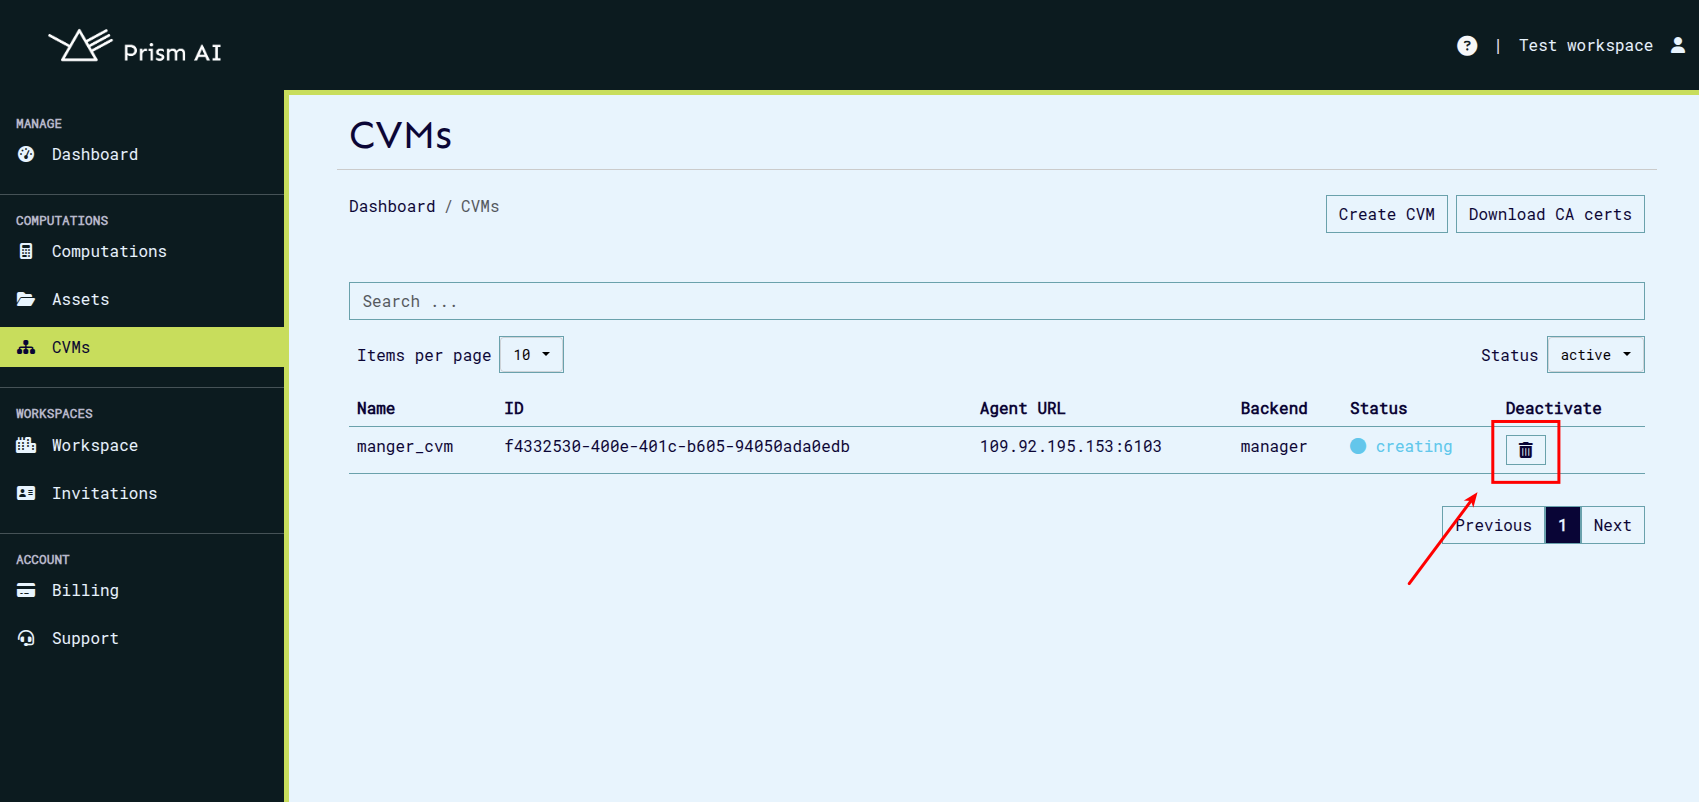
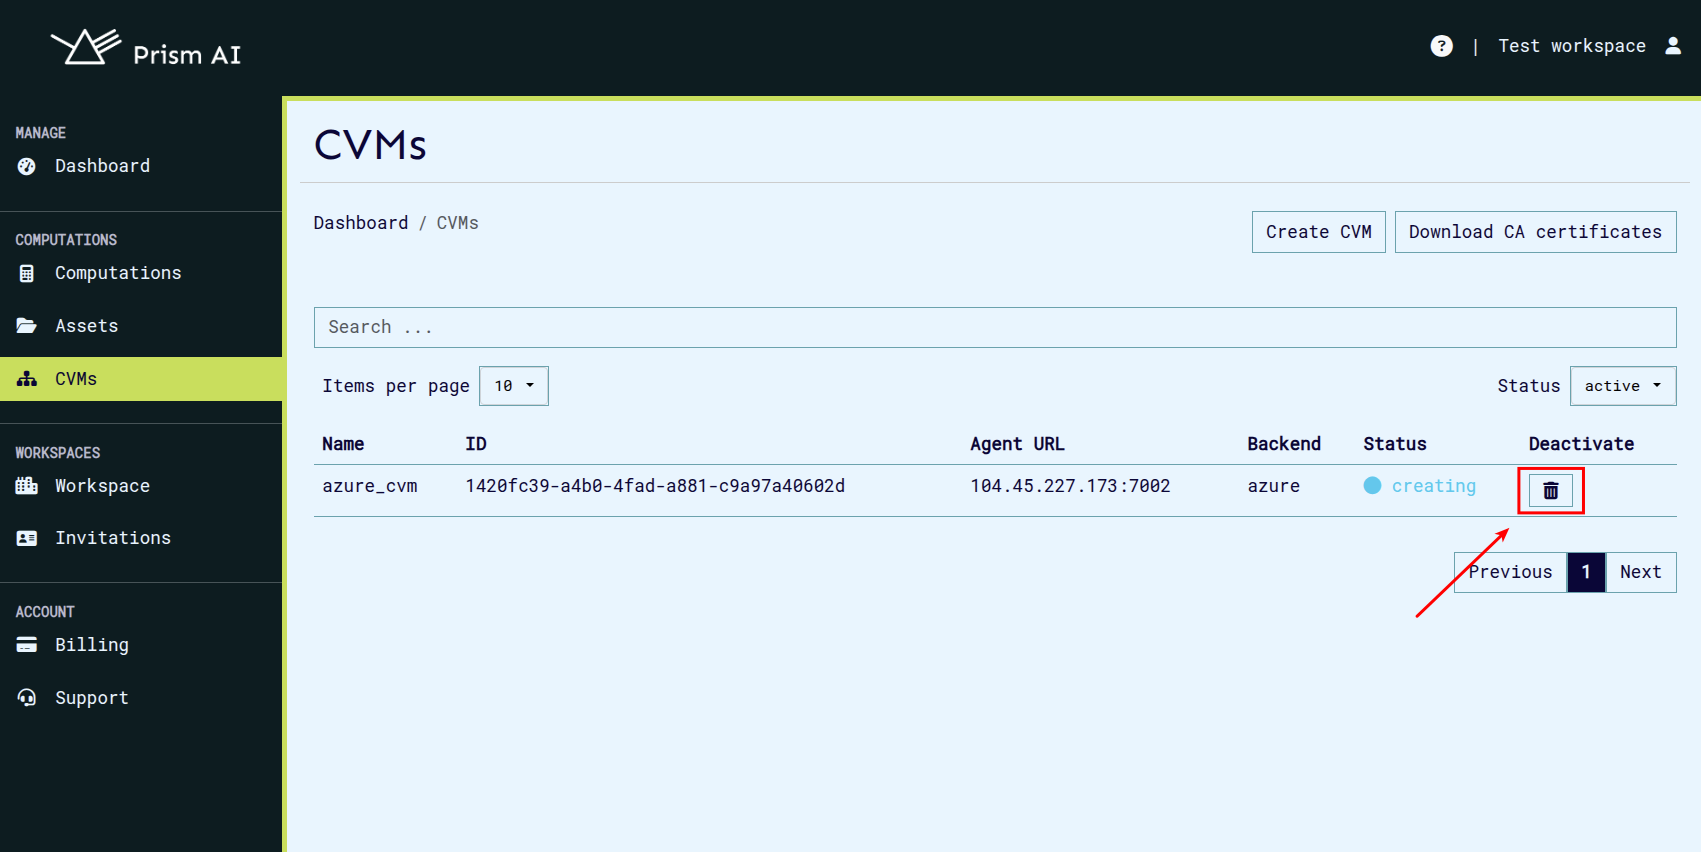
PD-80 - Test and document mutual attested TLS (#81)
* docs update

* fixed markdownlint error

* fixed markdownlint error

* Disabled the rule for non-descriptive links

* matls docs update

* updated markdown rules

* matls docs update

* rebased and fixed typo

* Added env config for maTLS

* added new images for cvm management

diff --git a/docs/computations.md b/docs/computations.md
@@ -53,13 +53,22 @@ The Agent Config feature allows users to configure TLS (Transport Layer Security
 
 The system supports four TLS configuration modes:
 
-1. Attested TLS
+1. No TLS
 
-   - Basic TLS configuration with attestation verification during the TLS handshake.
-   - No additional certificate or key files required.
-   - Suitable for environments requiring basic secure communication.
+   - Disables TLS security
+   - No additional configuration required
+   - Should only be used in secure, isolated environments
+   - Not recommended for production deployments
 
-2. Mutual TLS
+2. TLS
+
+   - Standard TLS configuration
+   - Required files:
+     - Key File
+     - Certificate File
+   - Suitable for environments requiring encrypted communication without mutual authentication
+
+3. Mutual TLS
 
    - Requires bi-directional authentication
    - Required files:
@@ -69,20 +78,17 @@ The system supports four TLS configuration modes:
      - Client CA File
    - Provides highest level of security with mutual authentication
 
-3. TLS
+4. Attested TLS
 
-   - Standard TLS configuration
+   - Basic TLS configuration with attestation verification during the TLS handshake.
+   - No additional certificate or key files required.
+   - Suitable for environments requiring basic secure communication.
+
+5. Mutual Attested TLS
+
+   - A combination of Mutual TLS and Attested TLS.
    - Required files:
-     - Key File
-     - Certificate File
-   - Suitable for environments requiring encrypted communication without mutual authentication
-
-4. No TLS
-
-   - Disables TLS security
-   - No additional configuration required
-   - Should only be used in secure, isolated environments
-   - Not recommended for production deployments
+     - Client CA File
 
 #### Log Level Configuration
 
@@ -136,7 +142,7 @@ The system supports four TLS configuration modes:
 
 ##### Client CA File
 
-- Required for: Mutual TLS only
+- Required for: Mutual TLS and Mutual Attested TLS
 - Format: PEM-encoded CA certificate
 - Purpose: Verification of client certificates
 
@@ -147,7 +153,7 @@ The system supports four TLS configuration modes:
 1. Access the Agent Config modal through the "Enter Agent Config" button on create/update computation page.
 2. Select appropriate TLS Configuration mode
 3. Set desired Log Level based on operational requirements
-4. For Mutual TLS or TLS modes:
+4. For TLS, Mutual TLS or Mutual Attested TLS modes:
    - Upload required certificate and key files
    - Verify file formats and permissions
 5. Click "Close" to save configuration
@@ -359,6 +365,22 @@ export AGENT_GRPC_SERVER_CA_CERTS=<path_to_generated_server_ca_cert>
 After this configuration you can connect to agent normally using cli and perform [operations](https://docs.cocos.ultraviolet.rs/cli/) on cli such as algo/data upload etc.
 
 It is important to note that the Agent is the server and cli the client. Therefore, upload server generated cert, key on the UI as shown above and configure certificates generated for client on CLI.
+
+#### Example: maTLS configuration
+
+Mutual Attested TLS works like mTLS with the addition of the attestation report. To configure maTLS follow the steps for mTLS. To connect cli to agent with maTLS, we need to configure the following superset of env variables on cli (mTLS + aTLS env variables).
+
+```bash
+
+export AGENT_GRPC_URL=<backend_host>:<agent_port>
+export AGENT_GRPC_CLIENT_CERT=<path_to_generated_client_cert>
+export AGENT_GRPC_CLIENT_KEY=<path_to_generated_client_key>
+export AGENT_GRPC_SERVER_CA_CERTS=<path_to_generated_server_ca_cert>
+export AGENT_GRPC_ATTESTED_TLS=true
+export AGENT_GRPC_ATTESTATION_POLICY=<path_to_attestation_policy_file>
+```
+
+After this configuration you can connect to agent normally using cli and perform operations on cli such as algo/data upload etc.
 
 ## Retrieve Computations
 

diff --git a/docs/cvms.md b/docs/cvms.md
@@ -48,7 +48,7 @@ To create a CVM, follow these steps:
 
    - From the dropdown menu, choose the desired CVM flavor (GCP, Azure, or Manager).
    - Specify the name of the CVM.
-   - Specify the log leve of the CVM Agent.
+   - Specify the log level of the CVM Agent.
    - Define the vCPU count and amount of RAM (configurable for Azure and GCP CVMs only).
 
    ![Create Modal](../static/img/cvms/create_modal.png)
@@ -84,7 +84,7 @@ Each CVM is initialized with default certificates that are used to verify secure
 
    - Additionaly, you can download the root certificate of the default CA. This certificate is used for signing newly issued certificates. The certificate can be downloaded on the CVM management page by clicking on the **Download CA certs** button.
 
-   ![CA certs dowload](../static/img/cvms/ca_certs_download.png)
+   ![CA certificate dowload](../static/img/cvms/ca_certs_download.png)
 
 ---
 

diff --git a/docs/certs.md b/docs/certs.md
@@ -1,6 +1,6 @@
 # Certs Service
 
-The certs service is a certificate authority used to issue certs related to CVMs service for mutual TLS purposes. The certs service provides the ability to issue, renew, revoke and download certificates.
+The certs service is a certificate authority used to issue certs related to CVMs service for mutual and mutual attested TLS purposes. The certs service provides the ability to issue, renew, revoke and download certificates.
 
 ## Issue a Certificate
 
